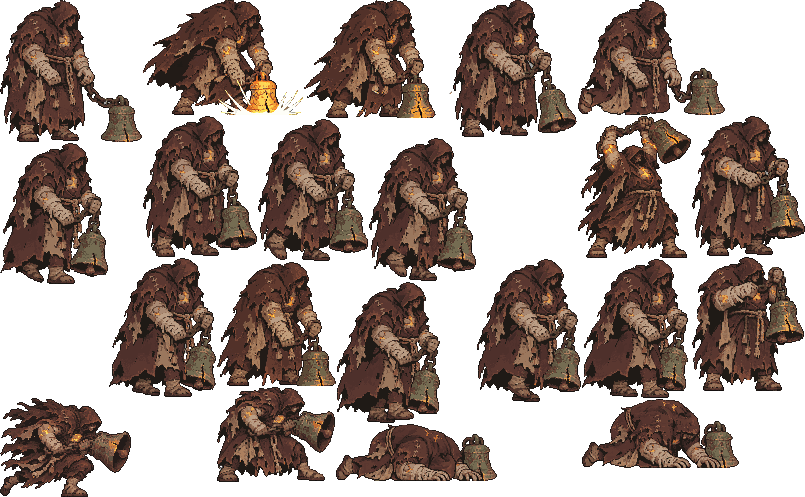
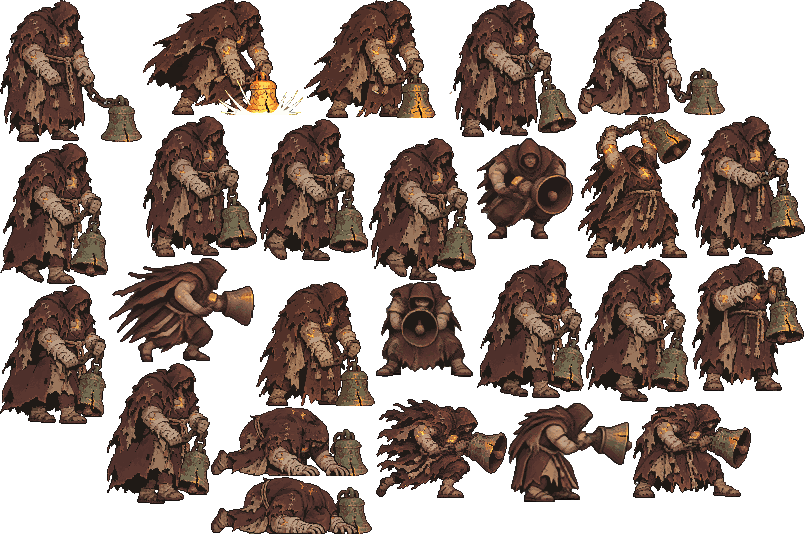
Dà al Campanaro le pose della Carica in diagonale (V2, da PixelLab): di lato entro 30° dall'orizzontale, poi in su o in giù; durante la mira e la corsa guarda dove corre

diff --git a/src/sistema/campanaro.ts b/src/sistema/campanaro.ts
@@ -207,9 +207,9 @@ export class Campanaro {
       case MOSSA_CAPO.chiamata:
         return f(att, Math.min(meta - 1, Math.floor(pieno * meta)));
       case MOSSA_CAPO.mira:
-        return f(spe, 0);
+        return f(spe, this.spicchio(spe));
       case MOSSA_CAPO.carica:
-        return f(spe, 1);
+        return f(spe, this.spicchio(spe) + 1);
       case MOSSA_CAPO.stordito:
         return f(att, att.frames.length - 1);
       case MOSSA_CAPO.recupero: // subito dopo il Rintocco, finché si vede l'onda, la campana a terra (il colpo)
@@ -217,6 +217,21 @@ export class Campanaro {
       default:
         return this.onda > 0 ? f(att, meta) : null;
     }
+  }
+
+  /**
+   * Quale coppia di «special» (mira, corsa) secondo la direzione della Carica: 0 di lato, 2 in diagonale in su, 4 in
+   * diagonale in giù. Con uno sprite di sole 2 pose resta di lato.
+   */
+  private spicchio(spe: Phaser.Animations.Animation): number {
+    if (spe.frames.length < 6 || Math.abs(this.dirY) <= Math.sin((K.carica.diagonale * Math.PI) / 180)) return 0;
+    return this.dirY < 0 ? 2 : 4;
+  }
+
+  /** Durante la mira e la corsa guarda dove corre, non il personaggio (−1 sinistra, 1 destra, 0 = come prima). */
+  get versoCarica(): number {
+    if (this.mossa !== MOSSA_CAPO.mira && this.mossa !== MOSSA_CAPO.carica) return 0;
+    return this.dirX < -0.01 ? -1 : this.dirX > 0.01 ? 1 : 0;
   }
 
   /**

diff --git a/src/data/campanaro.ts b/src/data/campanaro.ts
@@ -22,7 +22,10 @@ export const CAMPANARO = {
   rintocco: { avviso: 1.0, raggio: 150, onda: 0.25, danno: 20, recupero: 0.7 },
   // fase 2: dopo il disco, l'anello tra il raggio del Rintocco e questo, con il suo avviso
   anello: { raggio: 260, avviso: 0.7, danno: 20 },
-  carica: { avviso: 0.8, larghezza: 44, velocita: 520, danno: 25, stordito: 1.5, recupero: 0.4 },
+  carica: { avviso: 0.8, larghezza: 44, velocita: 520, danno: 25, stordito: 1.5, recupero: 0.4,
+    // la posa della mira e della corsa: di lato se la Carica va entro tanti gradi dall'orizzontale, altrimenti la
+    // diagonale in su o in giù (anche dritto in verticale); a sinistra il gioco ribalta (Edoardo, 24/11)
+    diagonale: 30 },
   chiamata: { avviso: 0.8, ricaduti: 2, ogni: 3, recupero: 0.6 }, // ogni: un attacco su tre in fase 2
   fase2: { soglia: 0.5, ritmo: 0.8 }, // sotto metà salute: pause e avvisi all'80% (gli attacchi arrivano il 20% prima)
   // la ricompensa: «sorsi» sorsi della fiaschetta (decisione di Edoardo del 17/11: un sorso vero, non più una cura diretta;

diff --git a/src/sistema/nemici-stanza.ts b/src/sistema/nemici-stanza.ts
@@ -361,7 +361,9 @@ export class NemiciStanza {
         const passo = dt * o.fattoreVelocita(i, false) * (dentroCerchio ? 1 - this.cerchioLento : 1);
         dCapo = Math.max(dCapo, this.capo.passo(this, i, dt, passo, px, py));
         this.stato[i] = this.capo.inAvviso ? STATO.avviso : STATO.cammina;
-        if (Math.abs(px - o.x[i]) > 1 && !this.capo.inAvviso) this.verso[i] = px < o.x[i] ? 1 : 0;
+        const vc = this.capo.versoCarica;
+        if (vc !== 0) this.verso[i] = vc < 0 ? 1 : 0;
+        else if (Math.abs(px - o.x[i]) > 1 && !this.capo.inAvviso) this.verso[i] = px < o.x[i] ? 1 : 0;
         continue;
       }
       if (o.tipo[i] === ID_SETH) {

diff --git a/docs/GDD.md b/docs/GDD.md
@@ -104,7 +104,7 @@ Il gioco a stanze nasce accanto al survivor e si raggiunge **solo dal link di pr
 - **Gli Echi** sono le armi automatiche del survivor e sparano da sole come nel survivor, **ma solo quando in campo c'è almeno un nemico** (Edoardo, 18/11: nelle stanze vuote e ripulite non sparano; la ricarica resta pronta e sparano appena arriva qualcuno; la Falce continua a girare), ma con i numeri del gioco a stanze: 5 livelli e danno a intervallo (vedi «Le armi nelle stanze», qui sotto). Anche **la Lanterna a mano** ha i suoi 5 livelli. Doni: Clessidra accorcia anche la ricarica della Lanterna, Stoppino lungo allarga anche il suo arco, Campanella d'argento allunga la finestra della schivata perfetta (+0,1 s per livello), lo **Specchio** dà i colpi in più a metà danno (`SPECCHIO_STANZE` in `src/data/doni.ts`, Edoardo 17/11: livello 1 «+1 colpo a ogni arma, al 50% del danno», livello 2 «+1 colpo a ogni arma», livello 3 «I colpi in più feriscono al 100% del danno»; al massimo +2 colpi; vale per Candela, Falce, Fuoco fatuo, Acqua santa, Lapide, Rosario spezzato, Corvo, Sampietrini; LAB → Stanze → «Specchio liv 1/2/3»), Erbe amare fanno tornare la salute, Scudo di ferro toglie parte del danno subito.
 - **Le porte**: una su ogni muro (in alto, a destra, in basso, a sinistra) dove c'è una stanza accanto; ci si entra camminandoci contro e **si entra nella stanza dopo dalla porta sul muro opposto** (chi esce a destra entra da sinistra), 40 px dentro la stanza (*da rivedere*), guardando verso il centro. Durante il combattimento le porte si vedono chiuse e senza medaglione. Aperte, ognuna ha il **medaglione della ricompensa della stanza a cui porta**: un medaglione di ferro battuto di 31 px con dentro, a grandezza vera, il simbolo dello stato dell'affinità del survivor (Abbagliato per la Luce, Consacrato per il Sacro, Maledetto per l'Ombra, Sepolto per la Terra; dal 16/11, `PORTE.medaglione`, `EFFETTI/Porta_Vuota`), il reliquiario dorato per il dono, e per gli Echi d'inizio un segnaposto (il medaglione vuoto con un rombo crema, *Porta_Echi* da disegnare). Una porta verso una stanza già ripulita non ha medaglione; quella del Boss ha il lucchetto o il medaglione rosso (qui sotto). Il medaglione sta sopra le porte in alto e ai lati, accanto (a destra) a quella in basso. Le porte sono **cancelli di ferro battuto** dentro archi di pietra (16/11): chiusa si vede il cancello con le punte, aperta il cancello è sollevato e in fondo al passaggio c'è un filo di luce ambra. **La porta in basso aperta** non è ancora disegnata: oggi è il vano del codice (scuro con la cornice arancione). Il pezzo intero della porta sta sotto il buio come i muri; **l'arco con il cancello si vede anche nel buio** quando il personaggio è a più di 170 px dal centro della porta (`PORTE.vicino`, *da rivedere*; più vicino la porta è nella luce della lanterna, e l'arco sopra il buio coprirebbe il personaggio). Anche i medaglioni si vedono nel buio. La porta in basso chiusa ha il vano più stretto di quello vero (va bene così, Edoardo, 16/11). Con il disegno del codice la porta chiusa ha le sbarre e quella aperta la cornice arancione, e si vedono anche nel buio.
 - **Il passaggio**: il buio si infittisce a retino fino al nero, si cambia stanza e il retino si dirada (0,25 s in tutto; 0,12 s verso una stanza già ripulita, *da rivedere*).
-- **Il Campanaro, mini-boss del Mondo 1** (17/11, decisioni di Edoardo; `CAMPANARO` in `src/data/campanaro.ts`, `src/sistema/campanaro.ts`): ha la sua stanza nella mappa, **a metà strada** tra ingresso e Boss: la stessa cripta, senza ondate. La sua arena è **doppia** (26 × 7 lastre, sopra) e ha **da 2 a 3 rompibili** (le altre stanze da 1 a 2; Claude, ok di Edoardo del 18/11, *da rivedere*). Dopo 0,8 s compare lui, **al centro dell'arena** (Edoardo, 18/11; se il Lampionaio è a meno di 120 px dal centro, cosa che succede solo dal LAB, dalla parte opposta: `PERCORSO.capoLontano`, confermato da Edoardo il 18/11), con il segno a terra di 1,2 s: entrando da una porta laterale è fuori dallo schermo e cammina verso di te, con la sua barra della salute in cima allo schermo e il nome in Tiny5. **Salute 3000**, corpo 24 px, cammina a 70 px/s; non si ferma e non si sposta per i colpi della Lanterna e la Lama di luce non lo accieca; gli stati lo toccano come i bruti. Tra un attacco e l'altro cammina verso di te per 1,3 s, poi sceglie: entro 170 px il **Rintocco** (un disco di 150 px che si riempie in 1 s, poi l'onda: 20 di danno a chi è dentro), più lontano la **Carica** (una linea larga 44 px fino al muro, 0,8 s; poi corre a 520 px/s: 25 di danno; contro il muro resta **stordito 1,5 s**). **Fase 2** sotto metà salute: un Rintocco subito, avvisi e pause all'80%; dopo il disco viene **l'anello** (da 150 a 260 px, avviso 0,7 s, 20 di danno: il posto sicuro torna vicino a lui) e ogni tre attacchi la **Chiamata** (avviso 0,8 s, 2 Ricaduti accanto a lui). Uscire dall'area all'ultimo istante dell'avviso è una schivata perfetta (Grazia). Gli avvisi si riempiono a terra sotto il Lampionaio; i loro bordi chiari e un'ellisse ai piedi del Campanaro si disegnano sopra il buio. Battuto, se ne vanno anche i suoi Ricaduti; poi **un sorso della fiaschetta** (Edoardo, 17/11; a fiaschetta piena si beve subito e cura come un sorso), **10 di Cera** e le 2 carte della ricompensa della sua stanza. Sprite: **V1 del 19/11** (`NEMICI/Campanaro/Campanaro_V1.aseprite`, tela 196 × 160, alto 140 px, circa 1,5 volte il Ricaduto): `walk` (8), `attack` (6: i primi 3 sono la campana che si alza e seguono l'avviso, il 4° è il colpo a terra e si vede finché dura l'onda, l'ultimo è piegato in avanti, per il recupero e lo stordimento), `special` (2: la mira accucciata e la corsa della Carica), `death` (6: la campana cade, lui crolla a faccia in giù). Tutti i numeri sono *da rivedere*.
+- **Il Campanaro, mini-boss del Mondo 1** (17/11, decisioni di Edoardo; `CAMPANARO` in `src/data/campanaro.ts`, `src/sistema/campanaro.ts`): ha la sua stanza nella mappa, **a metà strada** tra ingresso e Boss: la stessa cripta, senza ondate. La sua arena è **doppia** (26 × 7 lastre, sopra) e ha **da 2 a 3 rompibili** (le altre stanze da 1 a 2; Claude, ok di Edoardo del 18/11, *da rivedere*). Dopo 0,8 s compare lui, **al centro dell'arena** (Edoardo, 18/11; se il Lampionaio è a meno di 120 px dal centro, cosa che succede solo dal LAB, dalla parte opposta: `PERCORSO.capoLontano`, confermato da Edoardo il 18/11), con il segno a terra di 1,2 s: entrando da una porta laterale è fuori dallo schermo e cammina verso di te, con la sua barra della salute in cima allo schermo e il nome in Tiny5. **Salute 3000**, corpo 24 px, cammina a 70 px/s; non si ferma e non si sposta per i colpi della Lanterna e la Lama di luce non lo accieca; gli stati lo toccano come i bruti. Tra un attacco e l'altro cammina verso di te per 1,3 s, poi sceglie: entro 170 px il **Rintocco** (un disco di 150 px che si riempie in 1 s, poi l'onda: 20 di danno a chi è dentro), più lontano la **Carica** (una linea larga 44 px fino al muro, 0,8 s; poi corre a 520 px/s: 25 di danno; contro il muro resta **stordito 1,5 s**). **Fase 2** sotto metà salute: un Rintocco subito, avvisi e pause all'80%; dopo il disco viene **l'anello** (da 150 a 260 px, avviso 0,7 s, 20 di danno: il posto sicuro torna vicino a lui) e ogni tre attacchi la **Chiamata** (avviso 0,8 s, 2 Ricaduti accanto a lui). Uscire dall'area all'ultimo istante dell'avviso è una schivata perfetta (Grazia). Gli avvisi si riempiono a terra sotto il Lampionaio; i loro bordi chiari e un'ellisse ai piedi del Campanaro si disegnano sopra il buio. Battuto, se ne vanno anche i suoi Ricaduti; poi **un sorso della fiaschetta** (Edoardo, 17/11; a fiaschetta piena si beve subito e cura come un sorso), **10 di Cera** e le 2 carte della ricompensa della sua stanza. Sprite: **V2 del 24/11** (`NEMICI/Campanaro/Campanaro_V2.aseprite`: il V1 del 19/11 con le pose della Carica in diagonale; tela 196 × 160, alto 140 px, circa 1,5 volte il Ricaduto): `walk` (8), `attack` (6: i primi 3 sono la campana che si alza e seguono l'avviso, il 4° è il colpo a terra e si vede finché dura l'onda, l'ultimo è piegato in avanti, per il recupero e lo stordimento), `special` (6: tre coppie di mira accucciata e corsa della Carica, di lato, in diagonale in su e in diagonale in giù; le diagonali sono di PixelLab, 24/11), `death` (6: la campana cade, lui crolla a faccia in giù). **La posa della Carica segue la sua direzione** (Edoardo, 24/11): di lato se la corsa va entro **30°** dall'orizzontale (`CAMPANARO.carica.diagonale`), altrimenti la diagonale in su o in giù, anche per le corse dritte in verticale; verso sinistra il gioco ribalta; durante la mira e la corsa guarda dove corre, non il Lampionaio. Uno sprite con sole 2 pose in `special` resta di lato. Tutti i numeri sono *da rivedere*.
 - **La porta del Boss** (passo 3, 18/11, decisioni di Edoardo): resta **chiusa** finché non si batte il Campanaro, che ha la chiave. Chiusa, sopra il cancello c'è un **lucchetto** (segnaposto dal codice, grigio, 11 × 11 dentro il medaglione vuoto) e spingendoci contro compare sopra la testa «Serve la chiave del Campanaro» con il suono della campana; le altre porte della stanza si aprono come sempre. Battuto il Campanaro (scelta la carta), compare «La porta del capo è aperta» e la porta del Boss si apre con un **medaglione rosso** (segnaposto dal codice: il medaglione vuoto con un rombo rosso scuro). La chiave è il Campanaro battuto, cioè la sua stanza ripulita: si salva con la mappa. Le scritte durano 1,6 s (`PERCORSO.avviso`; durata e Tiny5 sopra la testa confermati da Edoardo il 18/11).
 - **Tesoro e Sosta** (18/11, decisioni di Edoardo; `STANZE_SPECIALI` in `src/data/mappa.ts`): due stanze in ogni mappa, comprese nelle 12–15. Il **tesoro** sta in un vicolo cieco qualsiasi (non il Boss né il Campanaro), ad almeno 2 porte dall'ingresso, **sempre dietro una porta chiusa a chiave** (sotto); la **Sosta** è la stanza da cui si entra nel Boss. Sono **vuote, senza nemici né rompibili, con le porte aperte**; la porta che ci porta ha il loro medaglione (segnaposto dal codice: un forziere dorato, una coppa azzurra). Al centro c'è il loro **oggetto**, che si usa **camminandoci sopra** (i piedi a meno di 16 px dal centro; Edoardo, 18/11), una volta sola: il **forziere** del tesoro apre un **Reliquiario di 3 carte rare**, pescate da tutte le fonti (Echi nuovi, livelli degli Echi e della Lanterna, doni) tra quelle di grado **Chiara o Ardente** (se non bastano, le altre; Amuleti e Unioni ci entreranno quando ci saranno); la **fonte** della Sosta **riempie la fiaschetta**, ma solo se non è già piena (a fiaschetta piena compare «La fiaschetta è già piena» e la fonte resta per dopo). Usato, l'oggetto si spegne (scuro) e la stanza conta come ripulita. Oggetti segnaposto: il simbolo del medaglione ingrandito 3 volte. Il bot va al tesoro appena ne vede la porta e usa la fonte quando la fiaschetta non è piena. LAB → Stanze → «Vai al tesoro», «Vai alla Sosta», «Usa l'oggetto»; nella mappa del LAB il tesoro è «$» e la Sosta «+».
 - **Chiavi e porte chiuse a chiave** (18/11, decisioni di Edoardo del 17/11 e del 18/11; `MAPPA.serrate` e `MAPPA.chiaveSicura` in `src/data/mappa.ts`, `ROMPIBILI_STANZE.chiave`, `PERCORSO.giriDoppia`). In ogni Mondo **da 1 a 3 porte** (a caso) sono chiuse a chiave, **sempre verso un vicolo cieco** (mai la strada per il Boss, mai capi né Sosta): dietro una c'è **sempre il tesoro**, dietro le altre una stanza di combattimento con la **ricompensa doppia** (ripulita, due giri di carte). La porta chiusa a chiave ha il medaglione con la **serratura dorata** (segnaposto dal codice) e resta chiusa anche quando le altre si aprono. Spingendoci contro senza chiavi compare «Serve una chiave»; **con una chiave compare il pulsante «Apri»** in basso al centro (sul computer anche **E**): **la porta non si apre da sola** (Edoardo, 18/11: si potrebbe passarci per sbaglio). Aperta, la chiave si consuma e la porta mostra il medaglione di ciò che c'è dietro. **Le chiavi**: una **sicura** per Mondo, che è la **ricompensa di una stanza a caso tra quelle sempre aperte** (di combattimento, ad almeno 2 porte dall'ingresso: il medaglione con la chiave dorata); ripulita, al posto delle carte la chiave è **a terra al centro** e si prende camminandoci sopra. In più **l'8%** di urne e giare (non le lanterne) lascia una chiave, che vola verso il personaggio come la Cera. Le chiavi si perdono a fine Veglia. Se una scritta è già sopra la testa, quella nuova la sostituisce subito. **Sotto la minimappa** (Edoardo, 18/11) la **Cera** raccolta nella Veglia, le **chiavi** in tasca e le **candele** accese (N/3): icona (la goccia e la chiave, disegnate dal codice) e numero in Jersey 10. Nella minimappa la stanza chiusa a chiave ha un lucchetto dorato e la stanza della chiave sicura una chiave dorata (finché la chiave non è presa). Il bot raccoglie le chiavi e apre le porte chiuse a chiave quando ne ha una. LAB → Stanze → Chiavi e porte chiuse a chiave: «Dai una chiave», «Vai davanti a una porta chiusa», «Vai alla chiave sicura», «Il prossimo vaso lascia una chiave», «Apri tutte le porte chiuse». Tutti i segnaposto *da rivedere*; il pulsante «Apri» e la sua posizione si provano sul S25 (*da rivedere*).

diff --git a/docs/asset_da_creare.md b/docs/asset_da_creare.md
@@ -12,7 +12,7 @@ Per la fetta verticale **non serve disegnare niente in anticipo**: ogni pezzo na
 | **Lampionaio del restyle: ritratto** | selezione del personaggio; in futuro dialoghi e guida | **V4 del 13/11** nel gioco: l'immagine di ChatGPT riportata alla griglia, tela nuova 260 × 387 (decisione di Edoardo: non si rimpicciolisce), `PERSONAGGI/Il Lampionaio/Il_Lampionaio_V4.aseprite`. La scheda lo ingrandisce di un numero intero di pixel veri fino all'altezza di prima (`SCHEDA_SELEZIONE`, `src/data/hud.ts`) |
 | **Fendente della Lanterna** (gioco a stanze) | colpo a tasto del Lampionaio, al posto dell'arco sottile | **V0 del 13/11** da pixelfx, disegnato per il gioco (`tools/pixelfx/fx/lanterna/fendente.js`): `segnaposto/EFFETTI/Pixelfx Fendente <raggio>/Pixelfx_Fendente_<raggio>_V0.aseprite` per 136, 160 e 183 px. In ogni file 18 fotogrammi da 40 ms: 6 per la direzione 0° (a destra), 6 per 22,5° e 6 per 45° (in basso a destra), centro al centro della tela; il gioco ricava le altre direzioni ribaltando e girando. Un `_V1` con lo stesso ordine li sostituisce |
 | **Restyle degli altri personaggi** (Becchino, Badessa, Strega; più avanti Sguattera e Veggente) | ritratti e sprite in gioco | immagini del restyle di Edoardo; sprite in gioco e animazioni con lo stesso metodo del Lampionaio, con le sue proporzioni, quando servono |
-| **Il Campanaro** (mini-boss del Mondo 1, 17/11): custode della cripta con la campana, circa 1,5 volte il Ricaduto, guarda a destra, piedi in basso al centro | arena del Campanaro, quarta stanza | **V1 del 19/11** nel gioco (`NEMICI/Campanaro/Campanaro_V1.aseprite`, tela 196 × 160, alto 140 px), con il metodo del 17/11: 3 immagini di ChatGPT di Edoardo (base, campana alzata, carica) riportate alla griglia, ridotte con la stessa scala (misurata sulla campana), scontornate e con il contorno scuro; le animazioni le ha fatte PixelLab tra una posa e l'altra. `walk` (8 da 130 ms), `attack` (6: i primi 3 sono l'avviso, il 4° il colpo a terra con le scintille, gli ultimi 2 piegato in avanti, usati anche per lo stordimento), `special` (2: mira accucciata, corsa), `death` (6, l'ultimo 500 ms). Originali e passaggi in `DEATH'S LUMEN/BOZZE/Il Campanaro/`. Da ritoccare a mano se vuoi: un `_V2` lo sostituisce da solo. Se cambi il numero di fotogrammi di `attack`, la prima metà resta l'avviso e quello a metà il colpo. Il V0 resta in `segnaposto/`. **Da fare: una posa della Carica in diagonale** (Edoardo, 19/11): oggi guarda solo a destra o a sinistra, e quando carica verso l'alto o il basso corre di lato. Tempi delle animazioni confermati da Edoardo il 19/11 |
+| **Il Campanaro** (mini-boss del Mondo 1, 17/11): custode della cripta con la campana, circa 1,5 volte il Ricaduto, guarda a destra, piedi in basso al centro | arena del Campanaro, quarta stanza | **V2 del 24/11** nel gioco (`NEMICI/Campanaro/Campanaro_V2.aseprite`: il V1 con le diagonali della Carica; il V1 era `Campanaro_V1.aseprite`, tela 196 × 160, alto 140 px), con il metodo del 17/11: 3 immagini di ChatGPT di Edoardo (base, campana alzata, carica) riportate alla griglia, ridotte con la stessa scala (misurata sulla campana), scontornate e con il contorno scuro; le animazioni le ha fatte PixelLab tra una posa e l'altra. `walk` (8 da 130 ms), `attack` (6: i primi 3 sono l'avviso, il 4° il colpo a terra con le scintille, gli ultimi 2 piegato in avanti, usati anche per lo stordimento), `special` (6: mira accucciata e corsa di lato, poi in diagonale in su, poi in diagonale in giù; le diagonali sono di PixelLab, 24/11, più morbide del resto: senza contorno scuro e con la campana meno verde, da ritoccare a mano se vuoi), `death` (6, l'ultimo 500 ms). Originali e passaggi in `DEATH'S LUMEN/BOZZE/Il Campanaro/`. Da ritoccare a mano se vuoi: un `_V2` lo sostituisce da solo. Se cambi il numero di fotogrammi di `attack`, la prima metà resta l'avviso e quello a metà il colpo. Il V0 resta in `segnaposto/`. ~~**Da fare: una posa della Carica in diagonale**~~ (**fatta il 24/11** con PixelLab; il codice sceglie la coppia di `special` dalla direzione: tieni l'ordine lato, su, giù). Le 8 direzioni girate da PixelLab sono in `BOZZE/Il Campanaro/` (`…_8_direzioni_pixellab.png`). Tempi delle animazioni confermati da Edoardo il 19/11 |
 | **Seth, il Rinnovato nel gioco a stanze** (Boss del Mondo 1, 18/11) | stanza del Boss | lo sprite del survivor `Il_Mietitore` (96 × 96: `walk`, `hurt`, `special`); negli avvisi usa la posa `special`, nel Passo della Morte lampeggia. **Mancano `attack` (la falciata e il lancio delle falci) e `death`**; servirebbe anche una posa per affondare nel terreno e riapparire. Falci (archi rossi) e detriti (zolle 16 × 16) sono disegnati dal codice. Il file con i tag nuovi lo sostituisce da solo |
 | **Pallini della fiaschetta** (gioco a stanze, 18/11) | sotto la barra della salute, uno per sorso massimo | disegnati dal codice: tondo 5 × 5 pixel, pieno ambra chiara con un punto di luce, vuoto quasi nero, bordo scuro (`FIASCHETTA_STANZA.pallini` in `src/data/stanze.ts`); se Edoardo li vuole disegnare, servono pieno e vuoto 5 × 5 |
 | **Ombre a terra** (gioco a stanze, 19/11) | sotto il Lampionaio e ogni nemico | fatte dal codice con la sagoma dello sprite stesso, schiacciata e ribaltata, colore #7a6470 moltiplicato sul pavimento (stile acetato): **non serve disegnarle**, cambiano da sole con gli sprite nuovi |

diff --git a/docs/decisioni.md b/docs/decisioni.md
@@ -281,6 +281,7 @@ Regole del registro (4 novembre 2026, scelte di Edoardo):
 | 2026-11-12 | **I comandi del Laboratorio escono da `Gioco.ts`** e vanno in `src/sistema/lab-partita.ts` (si chiamano `partita.lab.minuto(5)`…); il gioco non cambia. Il riordino di `armi.ts` aspetta, in «Da confermare». | Edoardo, 12/11: `Gioco.ts` era arrivato a 1.800 righe, quasi un quarto erano comandi di prova. |
 | 2026-11-12 | ~~**Il riordino di `armi.ts` si fa insieme, prima di introdurre la Veggente e la Sguattera** (primo passo di quella tappa).~~ (**anticipato e fatto il 12/11** come primo passo della fetta: cinque file a strati, `armi-colpo`, `armi-zone`, `armi-proiettili`, `armi-vicine` e `armi.ts` regista, divisione approvata da Edoardo) | Edoardo, 12/11: le loro armi andranno nel file già diviso per famiglie. |
 | 2026-11-23 | **Effetto CRT che si accende e si spegne** (richiesta di Edoardo): curvatura, rosso e blu sfasati, sfocatura, bloom, righe scure, bordi in ombra e grana, sopra il mondo di gioco ma non sopra l'HUD; interruttore nella pausa del gioco a stanze e nel LAB, la scelta resta sul dispositivo. **Unica eccezione al pixel perfect**, solo quando è acceso. Valori e posizione dell'interruttore proposti da Claude, *da rivedere*. | Edoardo, 23/11 («occhio al bloom, la distortion, gli RGB convergence offset, il blur e la grana»). Uno shader su una tela a parte, alla risoluzione dello schermo: curvatura e righe restano lisce, e spento il gioco non paga niente. |
+| 2026-11-24 | **Il Campanaro carica anche in diagonale**: tre coppie di pose (mira e corsa) di lato, in diagonale in su e in giù, fatte da PixelLab girando quelle del V1 e usate così come sono; di lato se la Carica va entro 30° dall'orizzontale, altrimenti la diagonale (anche per le corse dritte in verticale); durante la mira e la corsa guarda dove corre. | Edoardo, 24/11: prima caricava in su e in giù correndo di lato. Le diagonali sono più morbide del V1 (senza contorno scuro, campana meno verde), ma «vanno bene, così». |
 
 ## Riferimenti della v0 e dei link
 

diff --git a/docs/roadmap.md b/docs/roadmap.md
@@ -84,7 +84,7 @@ Dopo la prova del V6 (13/11, scelte di Edoardo): colpo con la mossa intera e dan
 ### Dopo la fetta (ordine da decidere con Edoardo)
 
 - Armi su 5 livelli con il potenziale del livello 5; la quarta arma della Terra; Reliquiari, Unioni al livello 4, porte d'élite.
-- ~~Mini-boss~~ **il Campanaro, primo passo fatto il 17/11**: quarta stanza dopo la fetta, Rintocco, Carica, Chiamata, due fasi, barra in cima, sorso e Cera; ~~sprite segnaposto dal codice~~ **sprite V1 fatto il 19/11** (3 pose di ChatGPT riportate alla griglia, animazioni di PixelLab; LAB → Stanze → Il Campanaro). Restano: la salute sulla durata obiettivo, il Reliquiario come ricompensa, la regola dell'Eclissi (5%, Quiete 6 s).
+- ~~Mini-boss~~ **il Campanaro, primo passo fatto il 17/11**: quarta stanza dopo la fetta, Rintocco, Carica, Chiamata, due fasi, barra in cima, sorso e Cera; ~~sprite segnaposto dal codice~~ **sprite V1 fatto il 19/11** (3 pose di ChatGPT riportate alla griglia, animazioni di PixelLab; LAB → Stanze → Il Campanaro); **pose della Carica in diagonale fatte il 24/11** (V2, PixelLab; di lato entro 30°, poi in su o in giù). Restano: la salute sulla durata obiettivo, il Reliquiario come ricompensa, la regola dell'Eclissi (5%, Quiete 6 s).
 - Boss (Seth e gli altri capi), Sosta e Lacrime di Lumen; un Mondo intero, poi tre.
 - ~~Il bot che gioca a stanze~~ (fatto il 14/11); le regole vincolanti nuove, con mini-boss e Boss.
 - ~~**Unioni nel gioco a stanze**~~ (**fatte il 19/11**: 12 Unioni, arma al livello 4 e dono al massimo, carta Unione in più alla stanza ripulita e nel tesoro, scoperta con l'animazione del survivor, salvate con la Veglia; LAB → Stanze → Unioni). Lo stesso giorno **effetti nuovi per Lapide inchiodata** (i critici avvicinano la lapide) **e Midollo Splendente** (la scia di polvere che acceca; LAB → Stanze → Unioni → «Polvere intorno»). Quando ci saranno più Mondi il modo di ottenerle cambierà (Edoardo, 19/11); lo sblocco nella Cappella è da riparlare.
